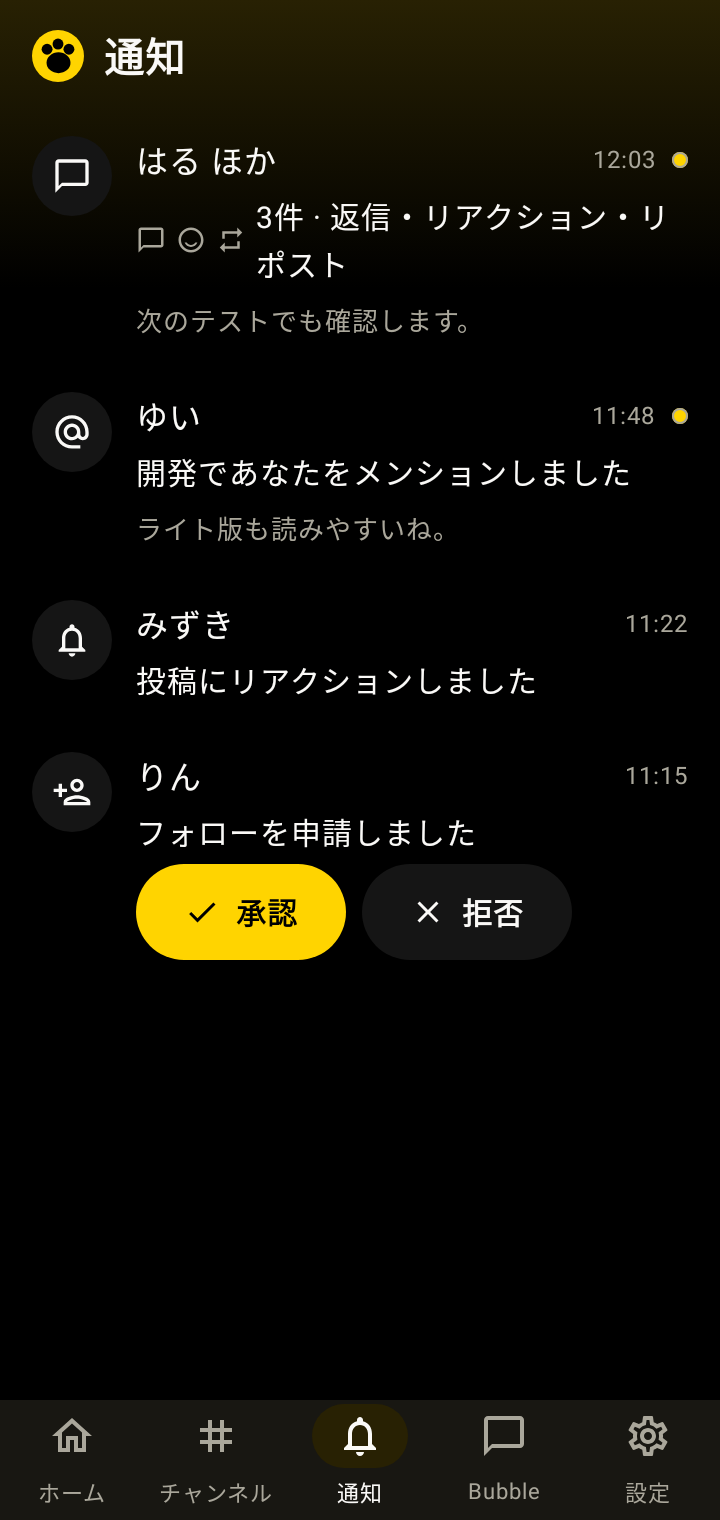
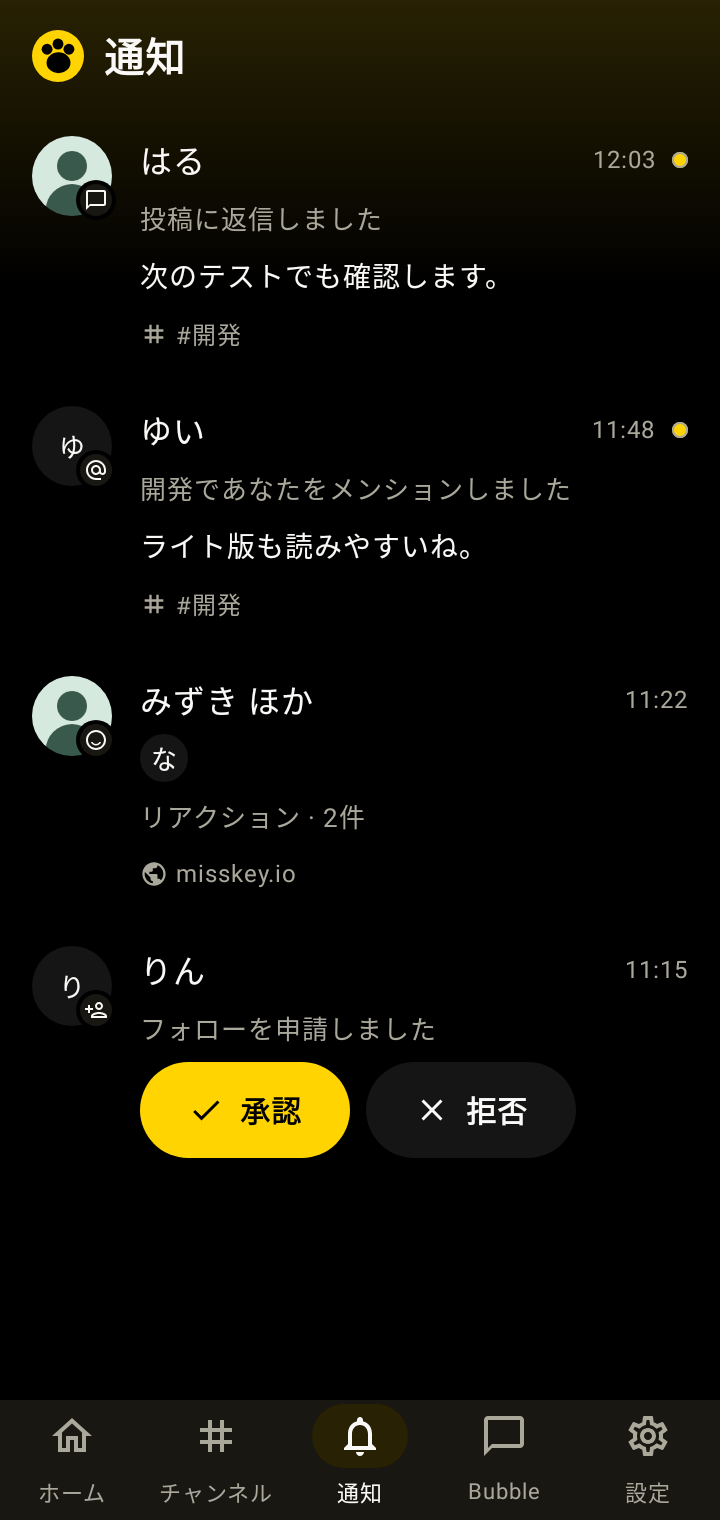
Match Android notification layout to Web

diff --git a/frontend-compose/androidApp/src/main/kotlin/zoo/android/ui/NotificationPage.kt b/frontend-compose/androidApp/src/main/kotlin/zoo/android/ui/NotificationPage.kt
@@ -6,6 +6,7 @@ import androidx.compose.foundation.border
 import androidx.compose.foundation.clickable
 import androidx.compose.foundation.layout.*
 import androidx.compose.foundation.lazy.LazyColumn
+import androidx.compose.foundation.lazy.LazyRow
 import androidx.compose.foundation.lazy.items
 import androidx.compose.foundation.lazy.rememberLazyListState
 import androidx.compose.foundation.shape.CircleShape
@@ -18,20 +19,24 @@ import androidx.compose.ui.graphics.ImageBitmap
 import androidx.compose.ui.layout.ContentScale
 import androidx.compose.ui.semantics.contentDescription
 import androidx.compose.ui.semantics.semantics
+import androidx.compose.ui.text.style.TextOverflow
+import androidx.compose.ui.unit.Dp
 import androidx.compose.ui.unit.dp
 import androidx.compose.ui.unit.sp
 import kotlinx.coroutines.delay
 
+internal data class InboxActor(val id: String, val name: String, val avatar: String? = null)
+
 internal data class InboxItem(
     val id: String,
-    val author: String,
+    val actors: List<InboxActor>,
     val summary: String,
     val detail: String?,
     val time: String,
     val unread: Boolean,
     val target: String? = null,
     val followActor: String? = null, val followActivity: String? = null,
-    val kinds: List<String> = emptyList(), val avatar: String? = null, val unreadIds: List<String> = emptyList(),
+    val kind: String = "", val unreadIds: List<String> = emptyList(), val destination: String? = null,
 )
 
 @OptIn(ExperimentalLayoutApi::class)
@@ -75,36 +80,54 @@ internal fun NotificationPage(
                 }
             }
             val target = item.target
-            Row(Modifier.fillMaxWidth()
-                .then(if (target != null) Modifier.clickable { onOpen(target) } else Modifier)
-                .padding(vertical = 12.dp), horizontalArrangement = Arrangement.spacedBy(12.dp)) {
-                val avatar by key(item.avatar) {
-                    produceState<ImageBitmap?>(null, foreground) {
-                        value = if (foreground) item.avatar?.let { loadAvatar(it) } else null
-                    }
+            Row(
+                Modifier.fillMaxWidth()
+                    .then(if (target != null) Modifier.clickable { onOpen(target) } else Modifier)
+                    .padding(vertical = 12.dp),
+                horizontalArrangement = Arrangement.spacedBy(12.dp),
+            ) {
+                Box(Modifier.size(42.dp)) {
+                    val actor = item.actors.firstOrNull()
+                    if (actor != null) InboxAvatar(actor, 40.dp, colors, loadAvatar)
+                    Box(
+                        Modifier.align(Alignment.BottomEnd).size(20.dp)
+                            .background(colors.background, CircleShape).padding(2.dp)
+                            .background(colors.quietSurface, CircleShape),
+                        contentAlignment = Alignment.Center,
+                    ) { UiGlyph(item.kind.activityIcon(), colors.foreground, iconSize = 12.dp) }
                 }
-                Box(Modifier.size(40.dp).clip(CircleShape).background(colors.inputSurface),
-                    contentAlignment = Alignment.Center) {
-                    val bitmap = avatar
-                    if (bitmap != null) Image(bitmap, null, Modifier.fillMaxSize(), contentScale = ContentScale.Crop)
-                    else UiGlyph(item.kinds.firstOrNull().activityIcon(), colors.foreground, iconSize = 20.dp)
-                }
-                Column(Modifier.weight(1f), verticalArrangement = Arrangement.spacedBy(4.dp)) {
+                Column(Modifier.weight(1f), verticalArrangement = Arrangement.spacedBy(5.dp)) {
                     Row(horizontalArrangement = Arrangement.spacedBy(8.dp), verticalAlignment = Alignment.CenterVertically) {
-                        Text(item.author, Modifier.weight(1f), color = colors.foreground, fontWeight = AndroidWeights.userName)
+                        val author = item.actors.firstOrNull()?.name.orEmpty()
+                        Text(if (item.actors.size > 1) "$author ほか" else author, Modifier.weight(1f),
+                            color = colors.foreground, fontWeight = AndroidWeights.userName, maxLines = 1,
+                            overflow = TextOverflow.Ellipsis)
                         Text(item.time, color = colors.secondary, fontSize = 12.sp)
-                        if (item.unread) Box(Modifier.size(8.dp).background(colors.accent, CircleShape)
-                            .border(1.dp, colors.secondary, CircleShape).semantics { contentDescription = "未読" })
+                        if (item.unread) Box(
+                            Modifier.size(8.dp).background(colors.accent, CircleShape).border(1.dp, colors.secondary, CircleShape)
+                                .semantics { contentDescription = "未読" },
+                        )
                     }
-                    Row(verticalAlignment = Alignment.CenterVertically, horizontalArrangement = Arrangement.spacedBy(5.dp)) {
-                        if (avatar != null || item.kinds.size > 1) {
-                            item.kinds.forEach { UiGlyph(it.activityIcon(), colors.secondary, iconSize = 15.dp) }
+                    if (item.actors.size > 1) {
+                        LazyRow(horizontalArrangement = Arrangement.spacedBy(4.dp)) {
+                            items(item.actors.drop(1), key = { it.id }) { actor ->
+                                InboxAvatar(actor, 24.dp, colors, loadAvatar)
+                            }
                         }
-                        Text(item.summary, color = colors.foreground, fontSize = 15.sp)
                     }
-                    item.detail?.let { Text(it, color = colors.secondary, fontSize = 13.sp) }
+                    Text(item.summary, color = colors.secondary, fontSize = 13.sp)
+                    item.detail?.let {
+                        Text(formatEntry(it), color = colors.foreground, fontSize = 14.sp,
+                            maxLines = 3, overflow = TextOverflow.Ellipsis)
+                    }
+                    item.destination?.let {
+                        Row(verticalAlignment = Alignment.CenterVertically, horizontalArrangement = Arrangement.spacedBy(4.dp)) {
+                            UiGlyph(if (it.startsWith("#")) UiIcon.Channels else UiIcon.Public, colors.secondary, iconSize = 14.dp)
+                            Text(it, color = colors.secondary, fontSize = 12.sp, maxLines = 1, overflow = TextOverflow.Ellipsis)
+                        }
+                    }
                     if (item.followActor != null && item.followActivity != null) {
-                        androidx.compose.foundation.layout.FlowRow(horizontalArrangement = Arrangement.spacedBy(8.dp)) {
+                        FlowRow(horizontalArrangement = Arrangement.spacedBy(8.dp)) {
                             TextAction("承認", colors, icon = UiIcon.Check) { respond(item.followActor, item.followActivity, true) }
                             TextAction("拒否", colors, icon = UiIcon.Close, style = TextActionStyle.Neutral) { respond(item.followActor, item.followActivity, false) }
                         }
@@ -112,6 +135,24 @@ internal fun NotificationPage(
                 }
             }
         }
+    }
+}
+
+@Composable
+private fun InboxAvatar(
+    actor: InboxActor,
+    size: Dp,
+    colors: AndroidColors,
+    loadAvatar: suspend (String) -> ImageBitmap?,
+) {
+    val bitmap by key(actor.avatar) {
+        produceState<ImageBitmap?>(null) { value = actor.avatar?.let { loadAvatar(it) } }
+    }
+    Box(Modifier.size(size).clip(CircleShape).background(colors.inputSurface)
+        .semantics { contentDescription = actor.name }, contentAlignment = Alignment.Center) {
+        val loaded = bitmap
+        if (loaded != null) Image(loaded, null, Modifier.fillMaxSize(), contentScale = ContentScale.Crop)
+        else Text(actor.name.take(1), color = colors.foreground, fontSize = 13.sp, fontWeight = AndroidWeights.userName)
     }
 }
 

diff --git a/frontend-compose/src/commonMain/kotlin/zoo/NotificationInbox.kt b/frontend-compose/src/commonMain/kotlin/zoo/NotificationInbox.kt
@@ -1,8 +1,10 @@
 package zoo
 
+data class NotificationActor(val id: String, val name: String, val avatar: String?)
+
 data class NotificationDisplay(
     val id: String,
-    val author: String,
+    val actors: List<NotificationActor>,
     val summary: String,
     val snippet: String?,
     val time: String,
@@ -10,9 +12,9 @@ data class NotificationDisplay(
     val target: String? = null,
     val followActor: String? = null,
     val followActivity: String? = null,
-    val kinds: List<String> = emptyList(),
-    val avatar: String? = null,
+    val kind: String,
     val unreadIds: List<String> = emptyList(),
+    val destination: String? = null,
 )
 
 private fun UnifiedNotificationEntry.representative(): Row = item ?: channel!!.first()
@@ -22,7 +24,7 @@ internal fun inboxGroups(entries: List<UnifiedNotificationEntry>): Map<String, L
         val row = entry.representative()
         val target = if (entry.item == null) row.text("message_id")
             else row.text("target_post_id").ifBlank { row.text("post_id") }
-        if (target.isBlank()) entry.key else "post-group:$target"
+        if (target.isBlank()) entry.key else "post-group:${noticeKind(row)}:$target"
     }
 
 class NotificationInbox(private val session: Session) {
@@ -34,27 +36,19 @@ class NotificationInbox(private val session: Session) {
             val latest = entries.first()
             val item = latest.representative()
             val rows = entries.flatMap { it.channel ?: listOf(it.representative()) }
-            val actor = item.nested("display_data").nested("actor")
-            val actorId = item.text("actor_id").removePrefix("local:")
-            val name = item.text("display_name").ifBlank { actor.text("display_name") }.ifBlank {
-                users[actorId]?.let(::author).orEmpty().ifBlank { actor.text("user_name").ifBlank { actorId } }
-            }
-            val kinds = rows.map(::noticeKind).distinct()
-            val summary = if (rows.size > 1) "${rows.size}件 · " + kinds.joinToString("・", transform = ::activityLabel)
+            val actors = rows.distinctBy { it.text("actor_id").removePrefix("local:") }
+                .map { notificationActor(it, users) }
+            val kind = noticeKind(item)
+            val summary = if (rows.size > 1) "${activityLabel(kind)} · ${rows.size}件"
                 else {
-                    val key = "home.notificationKinds.${kinds.first()}"
-                    session.t(key).takeUnless { it == key } ?: activityLabel(kinds.first())
+                    val key = "home.notificationKinds.$kind"
+                    session.t(key).takeUnless { it == key } ?: activityLabel(kind)
                 }
             val unreadIds = entries.flatMap { entry ->
                 (entry.channel ?: listOf(entry.representative())).filterNot { it.flag("is_read") }.map { it.text("id") }
             }
-            val avatar = item.nested("avatar").text("image_id").takeIf { it.matches(Regex("[a-f0-9]{64}")) }
-                ?.let { "/api/activitypub/emoji-images/$it" }
-                ?: actor.text("avatar_url").ifBlank { users[actorId]?.text("avatar_url").orEmpty() }
-                    .takeIf { publicUrl(it)?.protocol?.name == "https" }
             NotificationDisplay(
-                id, if (rows.size > 1) "$name ほか".takeIf { rows.map { it.text("actor_id").removePrefix("local:") }.distinct().size > 1 }
-                    ?: name else name,
+                id, actors,
                 summary, item.text("content").ifBlank { item.nested("display_data").nested("message").text("content") }
                     .ifBlank { null },
                 session.platform.notificationTime(latest.createdAt), unreadIds.isNotEmpty(),
@@ -63,13 +57,26 @@ class NotificationInbox(private val session: Session) {
                     ?: item.text("post_id").takeIf { it.isNotBlank() }?.let { "post:$it" },
                 item.text("actor_id").takeIf { noticeKind(item) == "follow_request" && item.flag("pending") && it.isNotBlank() },
                 item.text("activity_id").takeIf { noticeKind(item) == "follow_request" && item.flag("pending") && it.isNotBlank() },
-                kinds, avatar, unreadIds,
+                kind, unreadIds,
+                item.nested("display_data").nested("channel").text("channel_name").takeIf { it.isNotBlank() }
+                    ?.let { "#${it.trimStart('#')}" } ?: publicUrl(item.text("post_id"))?.host,
             )
         }
     }
 
-    private fun noticeKind(row: Row): String = row.text("kind").ifBlank { row.text("notification_type") }
-        .let { if (it == "reaction") "like" else it }
+    private fun notificationActor(item: Row, users: Map<String, Row>): NotificationActor {
+        val actor = item.nested("display_data").nested("actor")
+        val id = item.text("actor_id").removePrefix("local:")
+        val user = users[id]
+        val name = item.text("display_name").ifBlank { actor.text("display_name") }.ifBlank {
+            user?.let(::author).orEmpty().ifBlank { actor.text("user_name").ifBlank { id } }
+        }.ifBlank { "Zoo" }
+        val avatar = item.nested("avatar").text("image_id").takeIf { it.matches(Regex("[a-f0-9]{64}")) }
+            ?.let { "/api/activitypub/emoji-images/$it" }
+            ?: actor.text("avatar_url").ifBlank { user?.text("avatar_url").orEmpty() }
+                .takeIf { publicUrl(it)?.protocol?.name == "https" }
+        return NotificationActor(id, name, avatar)
+    }
 
     private fun activityLabel(kind: String): String = when (kind) {
         "like" -> "リアクション"
@@ -93,3 +100,7 @@ class NotificationInbox(private val session: Session) {
         )
     }
 }
+
+
+private fun noticeKind(row: Row): String = row.text("kind").ifBlank { row.text("notification_type") }
+    .let { if (it == "reaction") "like" else it }

diff --git a/frontend-compose/ui-preview/src/test/kotlin/zoo/android/ui/AndroidSamplesTest.kt b/frontend-compose/ui-preview/src/test/kotlin/zoo/android/ui/AndroidSamplesTest.kt
@@ -61,12 +61,14 @@ class AndroidSamplesTest {
             ChannelSection("ダイレクトメッセージ", listOf(ChannelItem("dm", "はる", isUserName = true))),
         ))
         val inbox = AndroidScreen.Notifications(listOf(
-            InboxItem("reply", "はる ほか", "3件 · 返信・リアクション・リポスト", "次のテストでも確認します。", "12:03", true,
-                kinds = listOf("reply", "like", "repost"), unreadIds = listOf("reply", "reaction", "repost")),
-            InboxItem("mention", "ゆい", "開発であなたをメンションしました", "ライト版も読みやすいね。", "11:48", true, kinds = listOf("mention")),
-            InboxItem("reaction", "みずき", "投稿にリアクションしました", null, "11:22", false),
-            InboxItem("follow", "りん", "フォローを申請しました", null, "11:15", false,
-                followActor = "https://example.test/rin", followActivity = "https://example.test/follow", kinds = listOf("follow_request")),
+            InboxItem("reply", listOf(InboxActor("haru", "はる", "fixture-avatar")),
+                "投稿に返信しました", "次のテストでも確認します。", "12:03", true, kind = "reply", destination = "#開発"),
+            InboxItem("mention", listOf(InboxActor("yui", "ゆい")),
+                "開発であなたをメンションしました", "ライト版も読みやすいね。", "11:48", true, kind = "mention", destination = "#開発"),
+            InboxItem("reaction", listOf(InboxActor("mizuki", "みずき", "fixture-avatar"), InboxActor("nagi", "なぎ")),
+                "リアクション · 2件", null, "11:22", false, kind = "like", destination = "misskey.io"),
+            InboxItem("follow", listOf(InboxActor("rin", "りん")), "フォローを申請しました", null, "11:15", false,
+                followActor = "https://example.test/rin", followActivity = "https://example.test/follow", kind = "follow_request"),
         ))
         val conversation = AndroidScreen.Conversation("dev", "開発", "Zoo の開発と通話のテストについて相談するチャンネルです。",
             posts, InputState("確認しました。"))
@@ -147,7 +149,7 @@ class AndroidSamplesTest {
                 if (action == AndroidUiAction.OpenChannelSettings("dev")) {
                     screen = AndroidScreen.ChannelSettings("開発", settings)
                 }
-            }, language = "ja", remoteAudioLevel = { .4f }) { item, modifier ->
+            }, language = "ja", remoteAudioLevel = { .4f }, loadNotificationAvatar = { avatar }) { item, modifier ->
                 Box(modifier.background(Color.Gray), contentAlignment = Alignment.Center) { Text(item.label) }
             }
         }
@@ -170,7 +172,9 @@ class AndroidSamplesTest {
                 }
                 if (name == "notifications") {
                     ui.onNodeWithText("未読").assertDoesNotExist()
-                    ui.onNodeWithText("3件 · 返信・リアクション・リポスト").assertIsDisplayed()
+                    ui.onNodeWithText("リアクション · 2件").assertIsDisplayed()
+                    ui.onNodeWithContentDescription("みずき", useUnmergedTree = true).assertIsDisplayed()
+                    ui.onNodeWithContentDescription("なぎ", useUnmergedTree = true).assertIsDisplayed()
                     ui.onAllNodesWithContentDescription("未読", useUnmergedTree = true).assertCountEquals(2)
                 }
                 if (name == "home") {

diff --git a/frontend-compose/src/commonTest/kotlin/zoo/UnifiedNotificationsTest.kt b/frontend-compose/src/commonTest/kotlin/zoo/UnifiedNotificationsTest.kt
@@ -4,16 +4,20 @@ import kotlin.test.*
 
 class UnifiedNotificationsTest {
     @Test
-    fun inboxGroupsRepliesAndReactionsByPostAndKeepsFollowRequestsSeparate() {
+    fun inboxGroupsByPostAndActivityKind() {
         val notices = listOf(
-            UnifiedNotificationEntry("reply", "3", item = obj("id" to "r", "post_id" to "reply", "target_post_id" to "root")),
-            UnifiedNotificationEntry("reaction", "2", channel = listOf(obj("id" to "a", "message_id" to "root"))),
-            UnifiedNotificationEntry("repost", "1", item = obj("id" to "p", "post_id" to "root")),
-            UnifiedNotificationEntry("follow", "0", item = obj("id" to "f", "post_id" to "")),
+            UnifiedNotificationEntry("reply", "4", item = obj("id" to "r", "kind" to "reply",
+                "post_id" to "reply", "target_post_id" to "root")),
+            UnifiedNotificationEntry("reaction", "3", channel = listOf(obj("id" to "a",
+                "notification_type" to "reaction", "message_id" to "root"))),
+            UnifiedNotificationEntry("remote-like", "2", item = obj("id" to "c", "kind" to "like", "post_id" to "root")),
+            UnifiedNotificationEntry("repost", "1", item = obj("id" to "p", "kind" to "repost", "post_id" to "root")),
+            UnifiedNotificationEntry("follow", "0", item = obj("id" to "f", "kind" to "follow_request")),
         )
         val groups = inboxGroups(notices)
-        assertEquals(listOf("post-group:root", "follow"), groups.keys.toList())
-        assertEquals(listOf("reply", "reaction", "repost"), groups.getValue("post-group:root").map { it.key })
+        assertEquals(listOf("post-group:reply:root", "post-group:like:root", "post-group:repost:root", "follow"),
+            groups.keys.toList())
+        assertEquals(listOf("reaction", "remote-like"), groups.getValue("post-group:like:root").map { it.key })
     }
 
     private fun local(id: String, time: String, read: Boolean = false): Row = obj("id" to id, "user_id" to "me", "actor_id" to "alice", "channel_id" to "channel", "message_id" to "message", "notification_type" to "reaction", "is_read" to read, "created_at" to time)

diff --git a/frontend-compose/androidApp/src/main/kotlin/zoo/android/NotificationInboxBinding.kt b/frontend-compose/androidApp/src/main/kotlin/zoo/android/NotificationInboxBinding.kt
@@ -4,11 +4,13 @@ import zoo.NotificationInbox
 import zoo.android.ui.AndroidScreen
 import zoo.android.ui.AndroidUiAction
 import zoo.android.ui.InboxItem
+import zoo.android.ui.InboxActor
 
 internal class NotificationInboxBinding(private val inbox: NotificationInbox) {
     fun screen(): AndroidScreen.Notifications = AndroidScreen.Notifications(
-        inbox.snapshot().map { InboxItem(it.id, it.author, it.summary, it.snippet, it.time, it.unread, it.target,
-            it.followActor, it.followActivity, it.kinds, it.avatar, it.unreadIds) },
+        inbox.snapshot().map { InboxItem(it.id, it.actors.map { actor -> InboxActor(actor.id, actor.name, actor.avatar) },
+            it.summary, it.snippet, it.time, it.unread, it.target,
+            it.followActor, it.followActivity, it.kind, it.unreadIds, it.destination) },
         nextCursor = inbox.nextCursor,
     )
 
